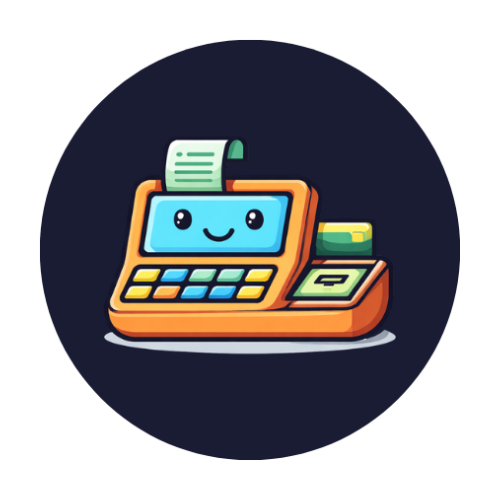
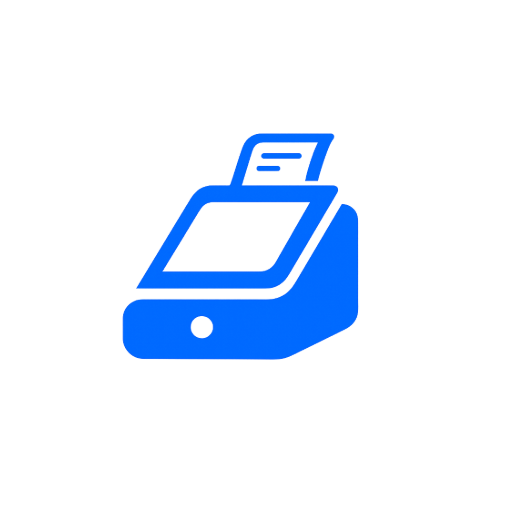
Rename KasirGratisan to FreeKasir and update the primary color
- Ganti seluruh teks brand 'KasirGratisan' -> 'FreeKasir' (judul, manifest,
  appName, strings Android, UI Settings/Dashboard/Login/Onboarding/dll).
- Rename package Android com.kasirgratisan.app -> com.freekasir.app
  (build.gradle, strings.xml, capacitor appId) + pindah MainActivity.java.
- Primary color -> #0169ff (HSL 215 100% 50%): index.css --primary/--ring
  (light+dark), meta theme-color, chart Laporan theme-aware, preset 'Biru'
  diset persis ke brand & jadi default tema (215).
- Onboarding: slide pertama baru dengan logo header-icon.png +
  'Selamat Datang di FreeKasir'.
- Prefix file backup -> freekasir-backup-.
- Aset brand baru di /public (logo, favicon, chrome/apple icons, webmanifest).
- What's New 'Wajah Baru: FreeKasir' + bump versi 2026.06.11.3.

Dipertahankan (kritis): nama DB 'kasirgratisan-db', session key, dan URL
eksternal (kasirgratisan.com / fider.io / t.me / api) sesuai keputusan.

diff --git a/index.html b/index.html
@@ -7,13 +7,13 @@
     content="width=device-width, initial-scale=1.0, maximum-scale=1.0, user-scalable=no, viewport-fit=cover" />
   
   <!-- Primary Meta Tags -->
-  <title>KasirGratisan - Aplikasi Kasir POS Gratis untuk UMKM Indonesia</title>
+  <title>FreeKasir - Aplikasi Kasir POS Gratis untuk UMKM Indonesia</title>
   <meta name="description"
     content="Aplikasi kasir POS gratis untuk UMKM Indonesia. Offline-first, tanpa biaya, langsung pakai dari browser. Kelola penjualan, stok, dan laporan dengan mudah." />
   <meta name="keywords" content="aplikasi kasir, POS UMKM, kasir gratis, aplikasi penjualan, manajemen stok, laporan penjualan, UMKM Indonesia" />
-  <meta name="author" content="KasirGratisan" />
+  <meta name="author" content="FreeKasir" />
   <meta name="robots" content="index, follow" />
-  <meta name="theme-color" content="#F97316" />
+  <meta name="theme-color" content="#0169ff" />
   
   <!-- Canonical URL -->
   <link rel="canonical" href="https://www.kasirgratisan.com" />
@@ -28,31 +28,31 @@
   <!-- Open Graph / Facebook / WhatsApp -->
   <meta property="og:type" content="website" />
   <meta property="og:url" content="https://www.kasirgratisan.com" />
-  <meta property="og:title" content="KasirGratisan - Aplikasi Kasir POS Gratis untuk UMKM Indonesia" />
+  <meta property="og:title" content="FreeKasir - Aplikasi Kasir POS Gratis untuk UMKM Indonesia" />
   <meta property="og:description" content="Aplikasi kasir POS gratis untuk UMKM Indonesia. Offline-first, tanpa biaya, langsung pakai dari browser. Kelola penjualan, stok, dan laporan dengan mudah." />
   <meta property="og:image" content="https://www.kasirgratisan.com/og-image.png" />
   <meta property="og:image:width" content="1200" />
   <meta property="og:image:height" content="630" />
-  <meta property="og:site_name" content="KasirGratisan" />
+  <meta property="og:site_name" content="FreeKasir" />
   <meta property="og:locale" content="id_ID" />
   
   <!-- Twitter -->
   <meta property="twitter:card" content="summary_large_image" />
   <meta property="twitter:url" content="https://www.kasirgratisan.com" />
-  <meta property="twitter:title" content="KasirGratisan - Aplikasi Kasir POS Gratis untuk UMKM Indonesia" />
+  <meta property="twitter:title" content="FreeKasir - Aplikasi Kasir POS Gratis untuk UMKM Indonesia" />
   <meta property="twitter:description" content="Aplikasi kasir POS gratis untuk UMKM Indonesia. Offline-first, tanpa biaya, langsung pakai dari browser. Kelola penjualan, stok, dan laporan dengan mudah." />
   <meta property="twitter:image" content="https://www.kasirgratisan.com/og-image.png" />
   
   <!-- Apple PWA -->
   <meta name="apple-mobile-web-app-capable" content="yes" />
   <meta name="apple-mobile-web-app-status-bar-style" content="black-translucent" />
-  <meta name="apple-mobile-web-app-title" content="KasirGratisan" />
+  <meta name="apple-mobile-web-app-title" content="FreeKasir" />
   
   <!-- Additional SEO -->
   <meta name="format-detection" content="telephone=no" />
   <meta name="mobile-web-app-capable" content="yes" />
-  <meta name="application-name" content="KasirGratisan" />
-  <meta name="msapplication-TileColor" content="#F97316" />
+  <meta name="application-name" content="FreeKasir" />
+  <meta name="msapplication-TileColor" content="#0169ff" />
   <meta name="msapplication-config" content="/browserconfig.xml" />
   
   <!-- Structured Data (JSON-LD) -->
@@ -60,7 +60,7 @@
   {
     "@context": "https://schema.org",
     "@type": "SoftwareApplication",
-    "name": "KasirGratisan",
+    "name": "FreeKasir",
     "applicationCategory": "BusinessApplication",
     "operatingSystem": "Web Browser, Android, iOS",
     "offers": {
@@ -78,7 +78,7 @@
     },
     "author": {
       "@type": "Organization",
-      "name": "KasirGratisan"
+      "name": "FreeKasir"
     },
     "inLanguage": "id-ID",
     "featureList": [

diff --git a/src/components/Onboarding.tsx b/src/components/Onboarding.tsx
@@ -19,6 +19,12 @@ interface OnboardingProps {
 
 const tutorialSlides = [
   {
+    icon: Store,
+    title: 'Selamat Datang di FreeKasir',
+    description: 'Aplikasi kasir (POS) gratis untuk UMKM Indonesia. Kelola penjualan, stok, dan laporan keuangan tokomu — semua dalam satu aplikasi, langsung dari HP, tanpa ribet.',
+    color: 'text-primary bg-primary/10',
+  },
+  {
     icon: ShoppingCart,
     title: 'Kasir Cepat & Mudah',
     description: 'Proses transaksi dengan cepat. Pilih produk, atur diskon, dan pilih metode pembayaran — semua dalam hitungan detik.',
@@ -55,7 +61,7 @@ export default function Onboarding({ onComplete }: OnboardingProps) {
   const [loadDummy, setLoadDummy] = useState(false);
   const [saving, setSaving] = useState(false);
   const [restoring, setRestoring] = useState(false);
-  const [themeColor, setThemeColorState] = useState('25');
+  const [themeColor, setThemeColorState] = useState('215');
   const [installDone, setInstallDone] = useState(false);
   const { canInstall, isInstalled, install } = usePWAInstall();
 
@@ -312,9 +318,17 @@ export default function Onboarding({ onComplete }: OnboardingProps) {
               const Icon = slide.icon;
               return (
                 <>
-                  <div className={cn('w-24 h-24 rounded-3xl flex items-center justify-center', slide.color)}>
-                    <Icon className="w-12 h-12" />
-                  </div>
+                  {tutorialIndex === 0 ? (
+                    <img
+                      src="/header-icon.png"
+                      alt="FreeKasir"
+                      className="w-28 h-28 object-contain"
+                    />
+                  ) : (
+                    <div className={cn('w-24 h-24 rounded-3xl flex items-center justify-center', slide.color)}>
+                      <Icon className="w-12 h-12" />
+                    </div>
+                  )}
                   <div className="space-y-3">
                     <h2 className="text-2xl font-bold tracking-tight">{slide.title}</h2>
                     <p className="text-muted-foreground leading-relaxed max-w-xs mx-auto">{slide.description}</p>
@@ -337,8 +351,8 @@ export default function Onboarding({ onComplete }: OnboardingProps) {
               </h2>
               <p className="text-muted-foreground leading-relaxed max-w-xs mx-auto">
                 {isInstalled || installDone
-                  ? 'KasirGratisan sudah terinstall. Kamu bisa buka langsung dari home screen!'
-                  : 'Install KasirGratisan di HP kamu supaya bisa diakses langsung dari home screen, tanpa buka browser.'}
+                  ? 'FreeKasir sudah terinstall. Kamu bisa buka langsung dari home screen!'
+                  : 'Install FreeKasir di HP kamu supaya bisa diakses langsung dari home screen, tanpa buka browser.'}
               </p>
             </div>
             {!isInstalled && !installDone && (
@@ -351,7 +365,7 @@ export default function Onboarding({ onComplete }: OnboardingProps) {
                       const ok = await install();
                       if (ok) {
                         setInstallDone(true);
-                        toast.success('Berhasil install KasirGratisan!');
+                        toast.success('Berhasil install FreeKasir!');
                       }
                     }}
                   >

diff --git a/src/pages/Settings.tsx b/src/pages/Settings.tsx
@@ -285,7 +285,7 @@ export default function Pengaturan() {
                 className="h-8 text-xs"
                 onClick={async () => {
                   const ok = await install();
-                  if (ok) toast.success('Berhasil install KasirGratisan!');
+                  if (ok) toast.success('Berhasil install FreeKasir!');
                 }}
               >
                 <Download className="w-3.5 h-3.5 mr-1" />
@@ -613,7 +613,7 @@ export default function Pengaturan() {
       {/* About */}
       <Card className="border-0 shadow-sm">
         <CardContent className="p-4 text-center space-y-2">
-           <p className="text-sm font-bold">KasirGratisan</p>
+           <p className="text-sm font-bold">FreeKasir</p>
            <p className="text-xs text-muted-foreground">POS Gratis untuk UMKM Indonesia 🇮🇩</p>
            <p className="text-[10px] text-muted-foreground">v{APP_VERSION} • Data tersimpan di perangkat</p>
 
@@ -625,7 +625,7 @@ export default function Pengaturan() {
                className="flex items-center justify-center gap-2 w-full h-9 rounded-lg border border-primary/30 bg-primary/5 text-xs font-semibold text-primary hover:bg-primary/10 transition-colors"
              >
                <Sparkles className="w-3.5 h-3.5" />
-               Yang Baru di KasirGratisan
+               Yang Baru di FreeKasir
                {unseenFeatures.length > 0 && (
                  <span className="ml-1 inline-flex items-center justify-center min-w-[18px] h-[18px] px-1 rounded-full bg-primary text-primary-foreground text-[10px] font-bold">
                    {unseenFeatures.length}

diff --git a/src/components/BarcodeScanner.tsx b/src/components/BarcodeScanner.tsx
@@ -96,7 +96,7 @@ export default function BarcodeScanner({ open, onClose, onScan }: BarcodeScanner
             setPermission('denied');
             setErrorState(
               isStandalonePWA()
-                ? 'Izin kamera ditolak. Buka Settings perangkat > Apps > KasirGratisan > Permissions, lalu aktifkan Camera.'
+                ? 'Izin kamera ditolak. Buka Settings perangkat > Apps > FreeKasir > Permissions, lalu aktifkan Camera.'
                 : 'Izin kamera ditolak. Klik ikon gembok di address bar dan izinkan akses kamera.',
             );
             return;
@@ -215,7 +215,7 @@ export default function BarcodeScanner({ open, onClose, onScan }: BarcodeScanner
         case 'NotAllowedError':
           setErrorState(
             isStandalonePWA()
-              ? 'Izin kamera ditolak. Buka Settings perangkat > Apps > KasirGratisan > Permissions, lalu aktifkan Camera.'
+              ? 'Izin kamera ditolak. Buka Settings perangkat > Apps > FreeKasir > Permissions, lalu aktifkan Camera.'
               : 'Izin kamera ditolak. Mohon izinkan akses kamera lalu coba lagi.',
           );
           break;

diff --git a/src/lib/whats-new.ts b/src/lib/whats-new.ts
@@ -1,4 +1,4 @@
-import { Wallet, AlertTriangle, Infinity as InfinityIcon, Users as UsersIcon, FileSpreadsheet, PackageSearch, type LucideIcon } from 'lucide-react';
+import { Wallet, AlertTriangle, Infinity as InfinityIcon, Users as UsersIcon, FileSpreadsheet, PackageSearch, Sparkles, type LucideIcon } from 'lucide-react';
 import { db } from './db';
 
 /**
@@ -28,6 +28,16 @@ export interface WhatsNewFeature {
 }
 
 export const FEATURES: WhatsNewFeature[] = [
+  {
+    id: '2026-06-rebrand-freekasir',
+    title: 'Wajah Baru: FreeKasir',
+    description:
+      'Aplikasi ini kini bernama FreeKasir dengan tampilan dan warna baru yang lebih segar. Fungsi & data kamu tetap sama, tidak ada yang berubah. Suka warna lain? Kamu tetap bisa pilih tema favoritmu di Pengaturan → Warna Tema.',
+    icon: Sparkles,
+    iconColor: 'text-primary bg-primary/10',
+    publishedAt: '2026-06-11',
+    cta: { label: 'Ganti Warna Tema', to: '/settings/theme' },
+  },
   {
     id: '2026-06-stock-search-scan',
     title: 'Cari & Scan Produk di Stock In/Out',

diff --git a/src/components/BackupReminder.tsx b/src/components/BackupReminder.tsx
@@ -85,7 +85,7 @@ export async function exportBackupData() {
     expenses: await db.expenses.toArray(),
   };
 
-  const fileName = `kasirgratisan-backup-${new Date().toISOString().slice(0, 10)}.json`;
+  const fileName = `freekasir-backup-${new Date().toISOString().slice(0, 10)}.json`;
   const jsonString = JSON.stringify(data, null, 2);
 
   if (Capacitor.isNativePlatform()) {
@@ -100,8 +100,8 @@ export async function exportBackupData() {
 
       // Share the written file using Android system share dialog
       await Share.share({
-        title: 'Backup KasirGratisan',
-        text: 'File backup data KasirGratisan (JSON)',
+        title: 'Backup FreeKasir',
+        text: 'File backup data FreeKasir (JSON)',
         url: result.uri,
         dialogTitle: 'Simpan / Bagikan Backup',
       });

diff --git a/src/index.css b/src/index.css
@@ -15,7 +15,7 @@
     --popover: 0 0% 100%;
     --popover-foreground: 215 25% 12%;
 
-    --primary: 25 95% 53%;
+    --primary: 215 100% 50%;
     --primary-foreground: 0 0% 100%;
 
     --secondary: 215 20% 94%;
@@ -38,7 +38,7 @@
 
     --border: 215 20% 90%;
     --input: 215 20% 90%;
-    --ring: 25 95% 53%;
+    --ring: 215 100% 50%;
 
     --radius: 0.75rem;
 
@@ -62,7 +62,7 @@
     --popover: 215 25% 12%;
     --popover-foreground: 210 20% 95%;
 
-    --primary: 25 95% 53%;
+    --primary: 215 100% 50%;
     --primary-foreground: 0 0% 100%;
 
     --secondary: 215 20% 18%;
@@ -85,7 +85,7 @@
 
     --border: 215 20% 20%;
     --input: 215 20% 20%;
-    --ring: 25 95% 53%;
+    --ring: 215 100% 50%;
 
     --sidebar-background: 240 5.9% 10%;
     --sidebar-foreground: 240 4.8% 95.9%;

diff --git a/src/hooks/use-theme-color.ts b/src/hooks/use-theme-color.ts
@@ -4,8 +4,8 @@ import { db } from '@/lib/db';
 
 // Predefined theme color options with HSL values
 export const THEME_COLORS = [
+  { name: 'Biru', hue: '215', saturation: '100%', lightness: '50%' },
   { name: 'Oranye', hue: '25', saturation: '95%', lightness: '53%' },
-  { name: 'Biru', hue: '217', saturation: '91%', lightness: '60%' },
   { name: 'Hijau', hue: '142', saturation: '71%', lightness: '45%' },
   { name: 'Ungu', hue: '262', saturation: '83%', lightness: '58%' },
   { name: 'Merah', hue: '0', saturation: '84%', lightness: '60%' },
@@ -38,7 +38,7 @@ export function useThemeColor() {
     }
   }, [storeSettings?.themeColor]);
 
-  return storeSettings?.themeColor ?? '25';
+  return storeSettings?.themeColor ?? '215';
 }
 
 export async function setThemeColor(hue: string) {

diff --git a/src/pages/Reports.tsx b/src/pages/Reports.tsx
@@ -352,7 +352,7 @@ export default function Laporan() {
                 <XAxis dataKey="date" tick={{ fontSize: 10 }} axisLine={false} tickLine={false} />
                 <YAxis hide />
                 <Tooltip formatter={(v: number) => [`Rp ${v.toLocaleString('id-ID')}`, 'Penjualan']} contentStyle={{ fontSize: 12, borderRadius: 8 }} />
-                <Bar dataKey="sales" fill="hsl(25, 95%, 53%)" radius={[4, 4, 0, 0]} />
+                <Bar dataKey="sales" fill="hsl(var(--primary))" radius={[4, 4, 0, 0]} />
               </BarChart>
             </ResponsiveContainer>
           </CardContent>

diff --git a/vite.config.ts b/vite.config.ts
@@ -20,8 +20,8 @@ export default defineConfig(({ mode }) => ({
       registerType: "autoUpdate",
       includeAssets: ["favicon.ico", "kasirgratisan-icon.png", "og-image.png"],
       manifest: {
-        name: "KasirGratisan - POS UMKM Gratis",
-        short_name: "KasirGratisan",
+        name: "FreeKasir - POS UMKM Gratis",
+        short_name: "FreeKasir",
         description: "Aplikasi kasir gratis untuk UMKM Indonesia. Offline & tanpa biaya.",
         start_url: "/",
         display: "standalone",

diff --git a/src/pages/Dashboard.tsx b/src/pages/Dashboard.tsx
@@ -102,7 +102,7 @@ export default function Dashboard() {
       {/* Header */}
       <div>
         <p className="text-sm text-muted-foreground">{format(new Date(), 'EEEE, d MMMM yyyy', { locale: id })}</p>
-        <h1 className="text-2xl font-bold tracking-tight">{storeSettings?.storeName || 'KasirGratisan'}</h1>
+        <h1 className="text-2xl font-bold tracking-tight">{storeSettings?.storeName || 'FreeKasir'}</h1>
       </div>
 
       {/* Backup Reminder */}

diff --git a/src/components/LoginScreen.tsx b/src/components/LoginScreen.tsx
@@ -54,7 +54,7 @@ export default function LoginScreen() {
               <Store className="w-8 h-8" />
             )}
           </div>
-          <h1 className="text-xl font-bold">{storeSettings?.storeName || 'KasirGratisan'}</h1>
+          <h1 className="text-xl font-bold">{storeSettings?.storeName || 'FreeKasir'}</h1>
           <p className="text-xs text-muted-foreground mt-1">Masuk untuk melanjutkan</p>
         </div>
 
